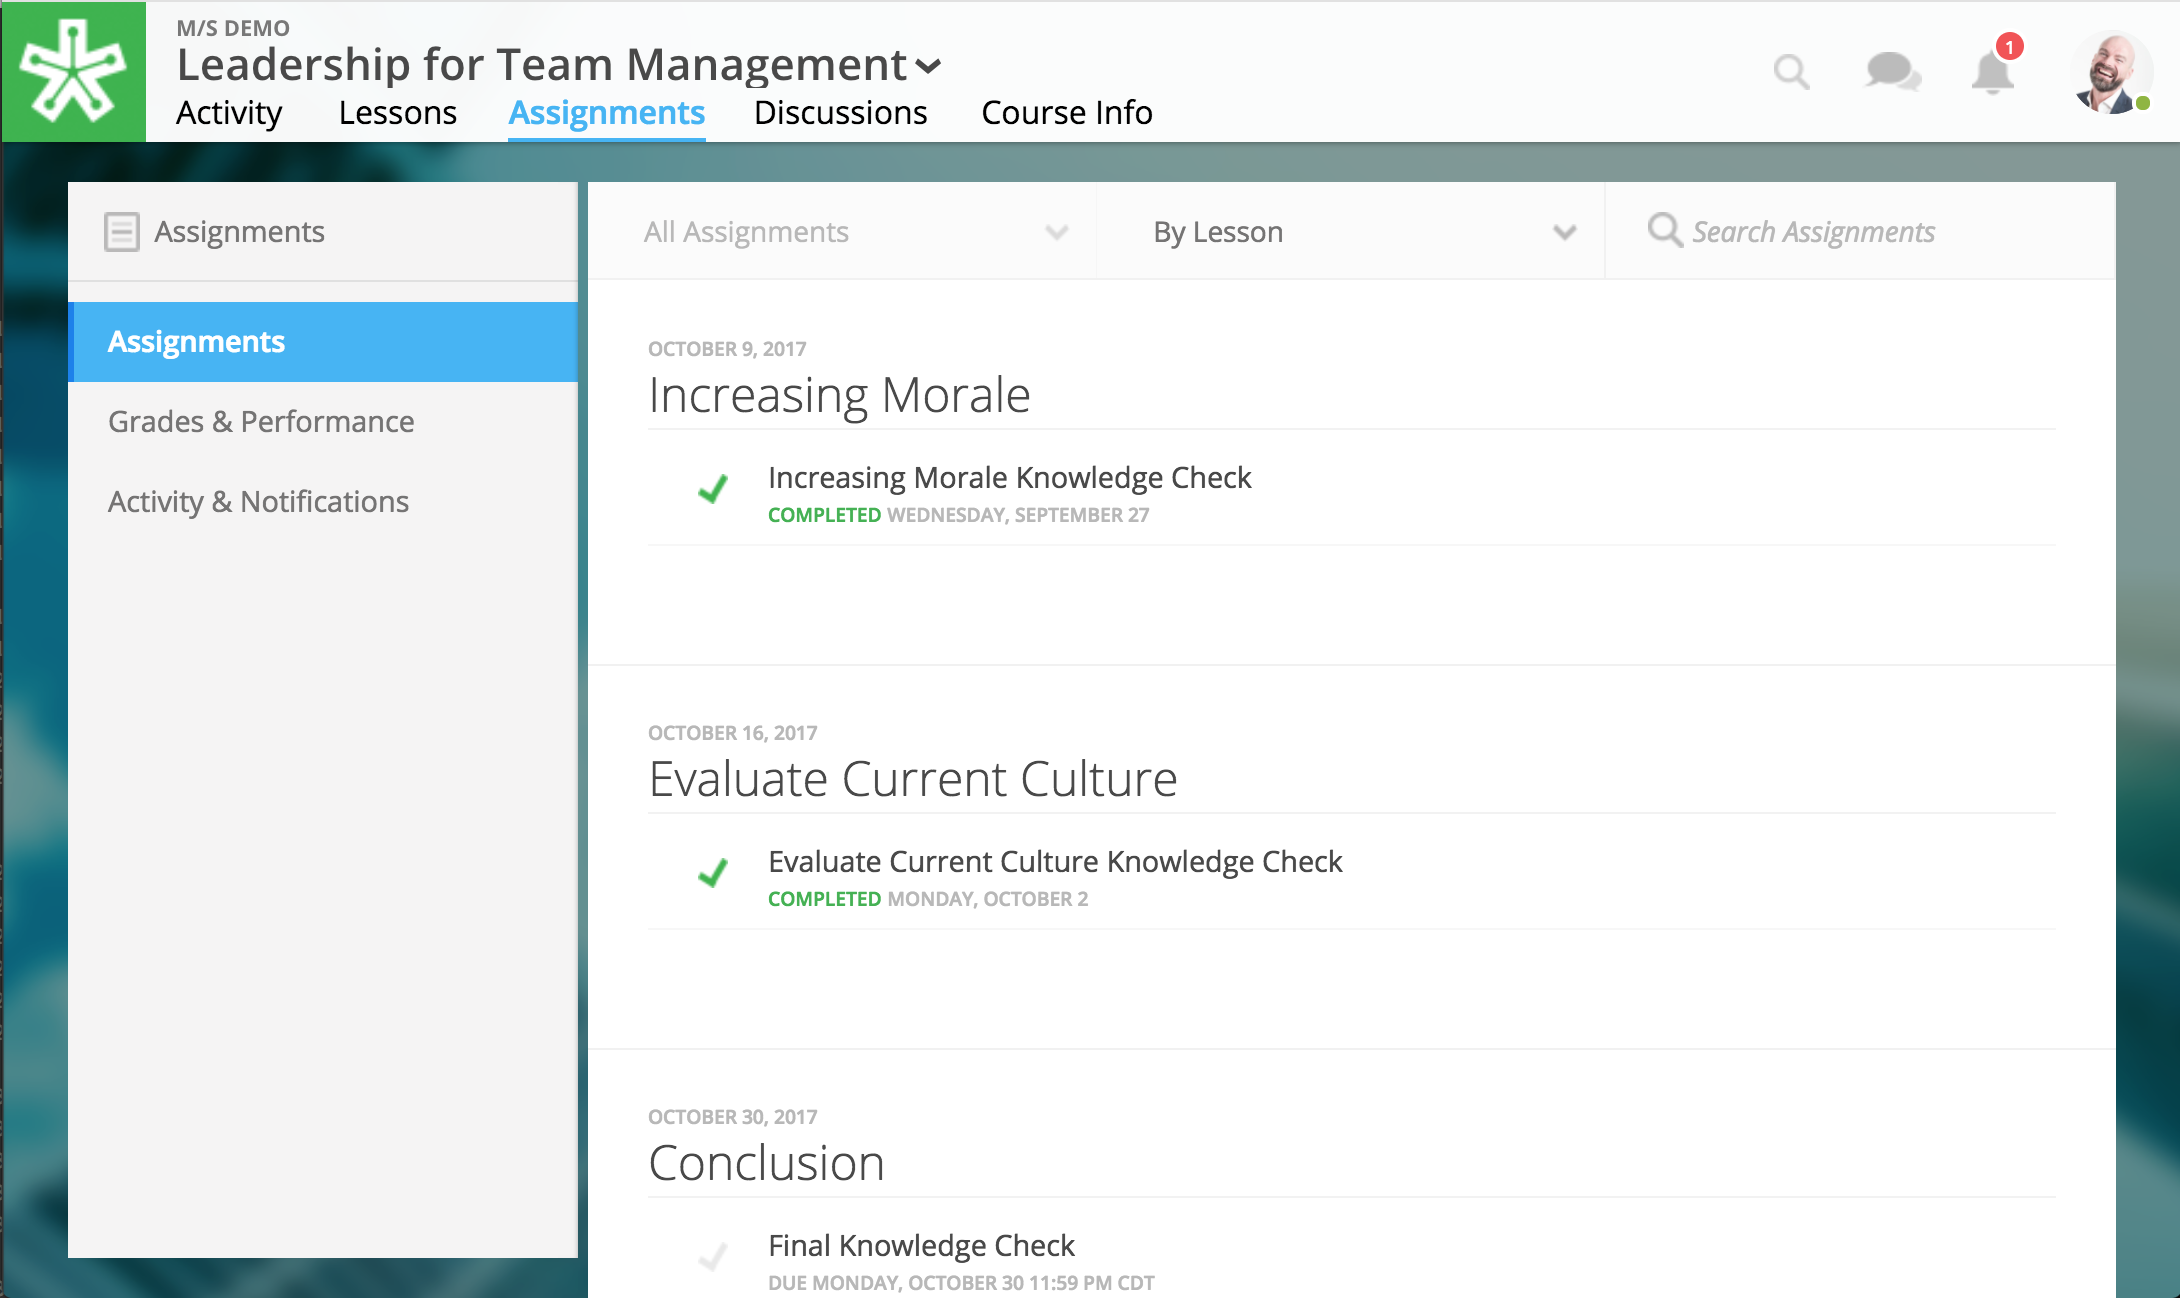
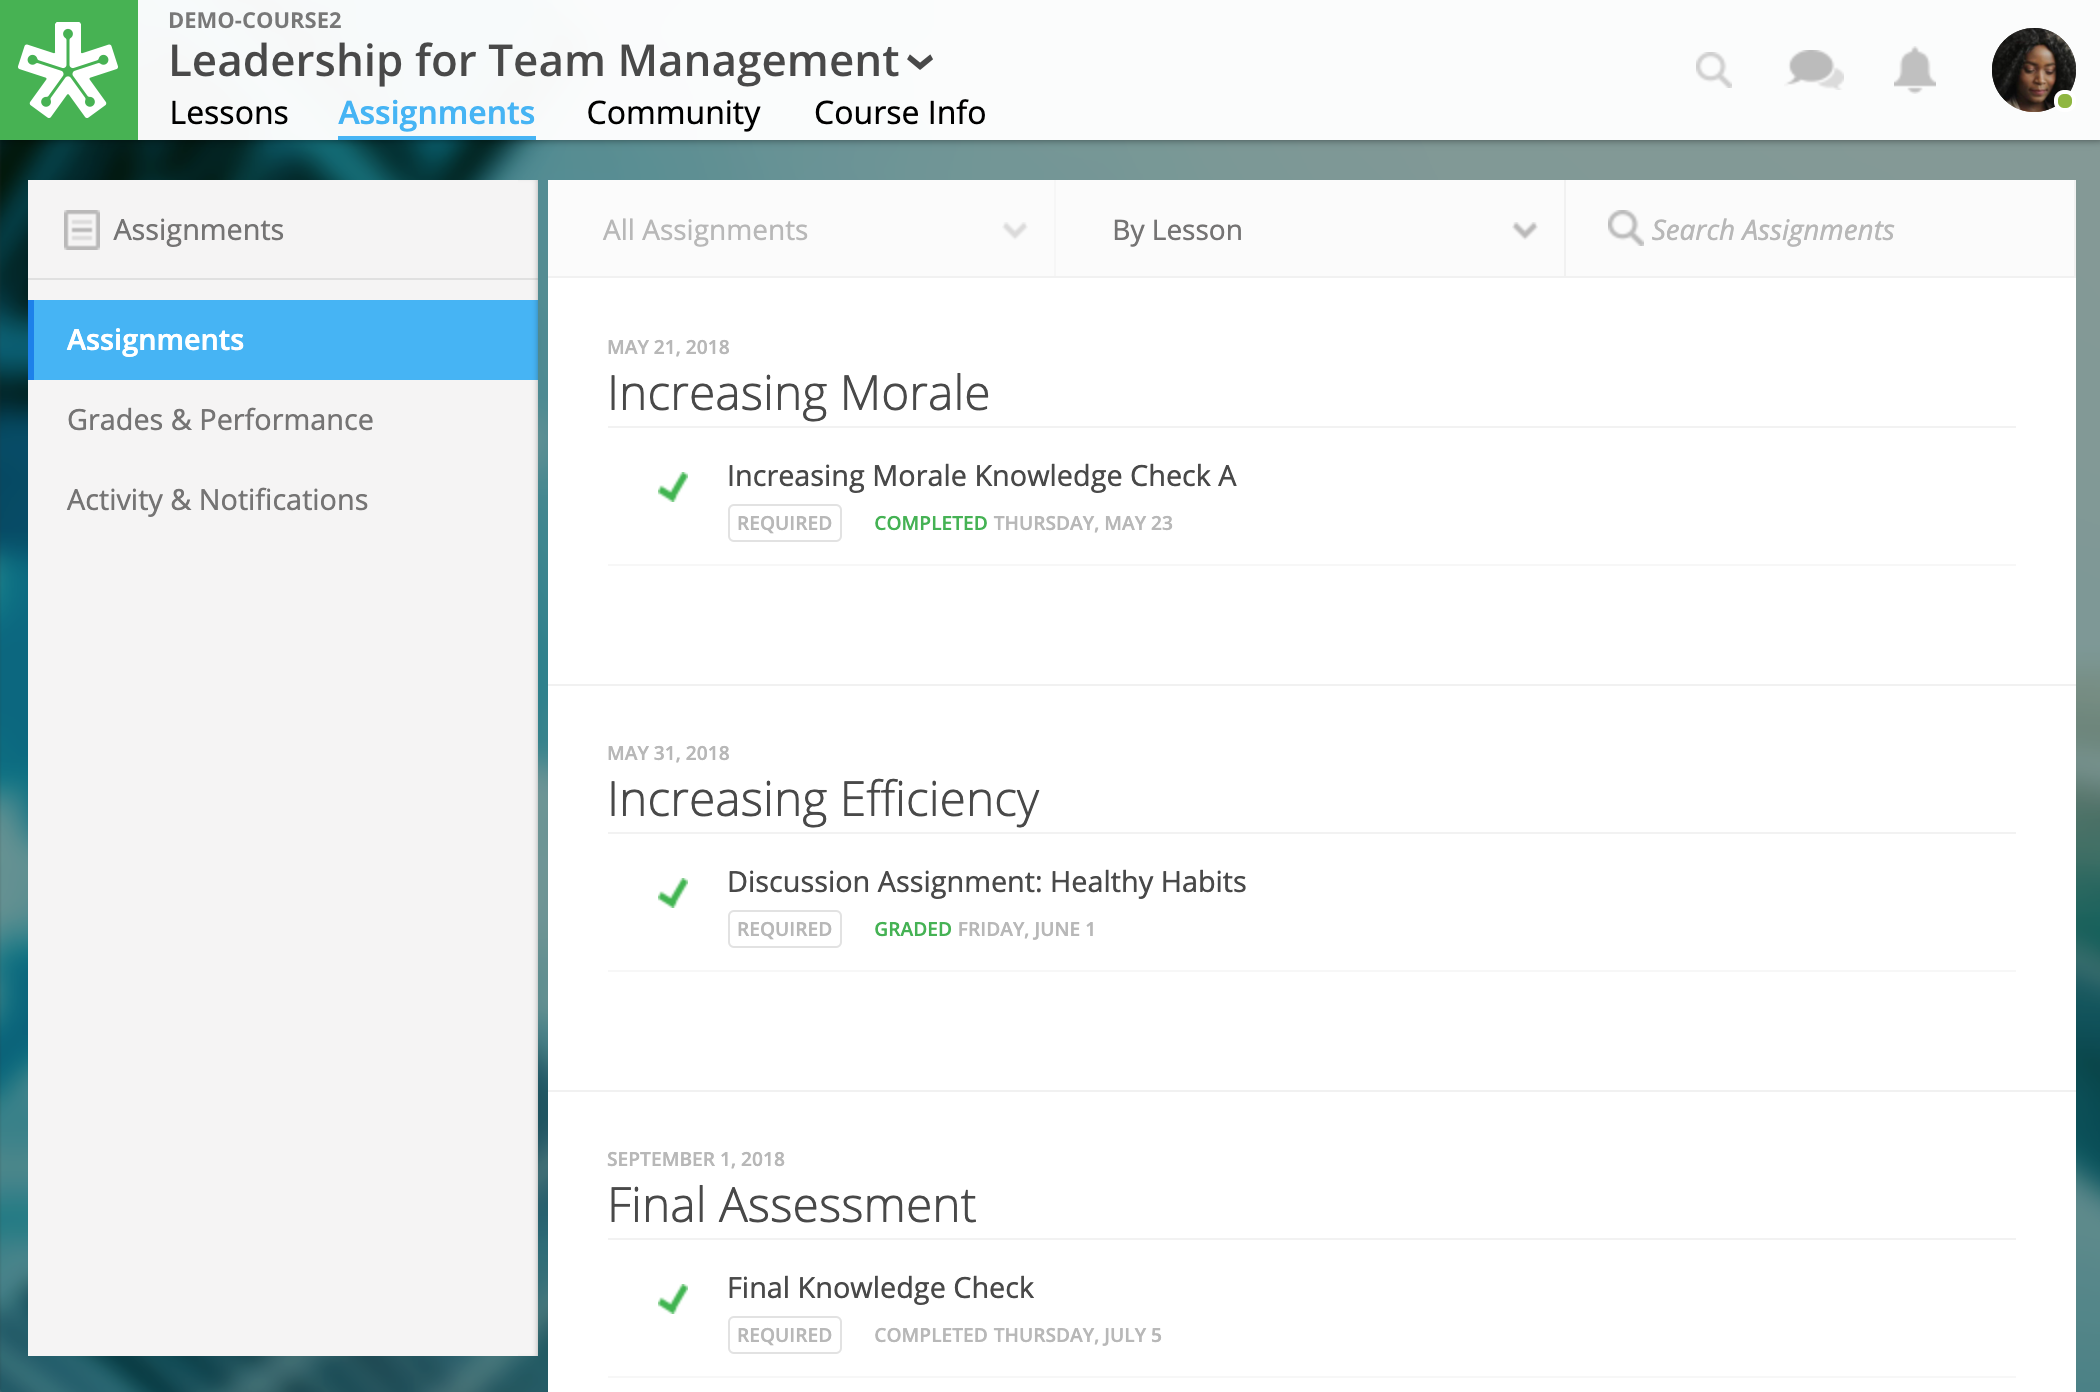
updated student getting started guide both images and text

Changed region(s): [[0.0, 0.0, 1.0, 1.0]]

diff --git a/userguide/Getting_Started.rst b/userguide/Getting_Started.rst
@@ -6,13 +6,13 @@ Welcome to a one-of-a-kind online learning experience! We’re excited
 that you’re here and that you’ve chosen to take part in the future of
 learning!
 
-Let’s take a quick lookat your learning platform to get started.
+Let’s take a quick look at your learning platform to get started.
  
 Homepage
 ========
 
 When you first log in, you will land on your homepage. It displays the
-Courses you’ve enrolled in as well as your Books.
+courses, trainings, programs, and/or modules you've joined.
 
    .. image:: images/homepage.png
 
@@ -21,8 +21,8 @@ Course Organization
 
 Navigate to your course by selecting the course on your
 homepage. Across the banner at the top of your course, you’ll notice
-five course views: “Activity,” “Lessons,” “Assignments,”
-“Discussions,” and “Course Info.”
+four course views: “Lessons,” “Assignments,”
+“Community,” and “Course Info.”
 
    .. image:: images/navbanner.png
 
@@ -44,14 +44,11 @@ information on grades, assignment due dates, feedback, and more.
 
    .. image:: images/assignmentsview.png
 
-Discussions View
+Community View
 ----------------
 
-The Discussions View is your tool to
-communicate and keep up with the course. There are three main forums:
-Discussions (which contains all your course discussions within your
-lessons), Announcements (important announcements from your
-instructor), and Forums (a space for YOU to communicate!).
+The Community View is the place to
+communicate and keep up with the course community. Both you and your facilitators can post to the forums available. In forums available to learners, you can post new topics and respond to others. In facilitator-led forums, you won't be able to post new topics, but you can respond to any topic listed. You may also see these topics within your course Lessons View.
 
    .. image:: images/discussionsview2.png
 
@@ -59,21 +56,11 @@ Course Info
 -----------
 
 Drop into Course Info to find basic
-information on your course including the course description, start and
-end dates, the instructor’s name and title, contact information for
+information on your course including the course description, course credit, start and
+end dates, the facilitators’s name and title, contact information for
 tech support, and more.
 
    .. image:: images/courseinfoview2.png
 
-Activity View
--------------
 
-Your Activity View is the heartbeat of the
-course! Here, course activity is arranged in a timeline for a quick
-overview of the most important activity happening in the course. This
-may include a reading, an upcoming assignment, or a hot topic
-currently being discussed in the course forums!
-
-
-   .. image:: images/activityview2.png
 
